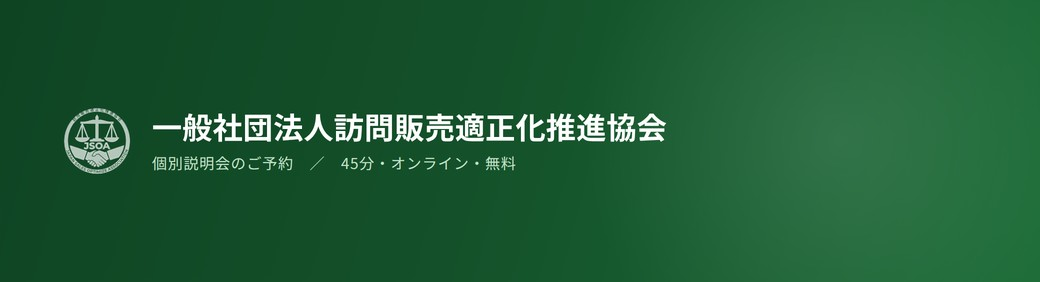
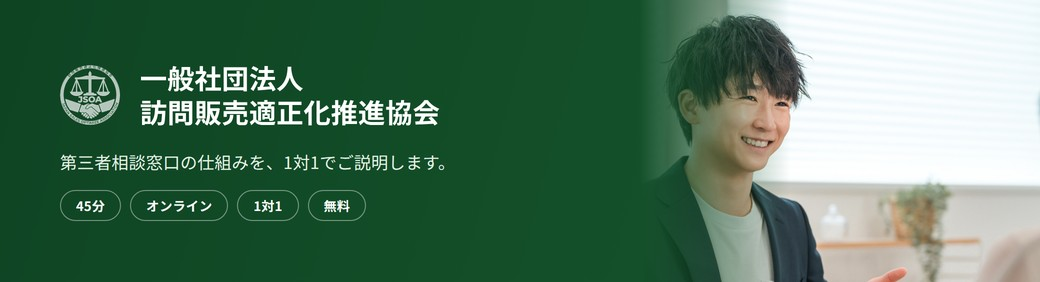
Restore the photo on the Jicoo cover
The booking page crops far less than the earlier stock image implied — the
frame is about 4.3:1 against the image's 3.69:1, so only 7% is lost top and
bottom. That leaves room for the photo and the session facts, where the
flat green version left most of the banner empty.

Claude-Session: https://claude.ai/code/session_01VY4H4nKyvLUSKi8jDhUzRq

diff --git a/design/banner/jicoo-cover.html b/design/banner/jicoo-cover.html
@@ -1,36 +1,41 @@
 <!DOCTYPE html><html lang="ja"><head><meta charset="UTF-8">
 <!-- Jicoo 予約ページのカバー画像（1040x282）
 
-     表示時に上下が大きく切られる（横1900pxの枠で高さ170px程度＝
-     画像の中央3分の1しか見えない）。そのため
-       ・文字とロゴは中央±50pxに収める
-       ・写真は使わない（どの位置でも人物の顔が切れるため）
-     という方針で組んでいる。 -->
+     予約ページ側の枠は約 4.3:1。この画像は 3.69:1 なので、表示時に
+     上下がそれぞれ 7% ほど切られる。安全域は上下20pxを除いた内側。 -->
 <style>
   *{box-sizing:border-box;margin:0;padding:0}
   body{width:1040px;height:282px;overflow:hidden;
     font-family:"Noto Sans JP","Noto Sans CJK JP",sans-serif}
   .b{position:relative;width:1040px;height:282px;overflow:hidden;
-    background:linear-gradient(105deg,#0f4423 0%,#14512a 46%,#1d6d38 100%);
-    display:flex;align-items:center;padding-left:64px}
-  /* 右奥の光。帯のどこを切り出しても単調にならないための陰影 */
-  .b::before{content:"";position:absolute;top:-120px;right:-60px;
-    width:520px;height:520px;border-radius:50%;
-    background:radial-gradient(circle,rgba(255,255,255,.11) 0%,rgba(255,255,255,0) 70%)}
-  .row{position:relative;display:flex;align-items:center;gap:22px}
-  .row img{width:66px;height:66px;display:block;flex:none}
-  .t strong{display:block;font-size:30px;font-weight:700;color:#fff;
+    background:#14512a;display:grid;grid-template-columns:640px 400px}
+  .l{position:relative;display:flex;flex-direction:column;justify-content:center;
+    padding:0 40px 0 60px;
+    background:linear-gradient(105deg,#0f4423 0%,#14512a 100%)}
+  .brand{display:flex;align-items:center;gap:20px}
+  .brand img{width:60px;height:60px;display:block;flex:none}
+  .brand strong{font-size:27px;font-weight:700;color:#fff;
     line-height:1.25;letter-spacing:.01em}
-  .t span{display:block;margin-top:8px;font-size:15px;font-weight:500;
-    color:#c3e2c9;letter-spacing:.05em}
+  .lead{margin-top:20px;font-size:17px;font-weight:500;color:#e4f2e6;
+    line-height:1.5;letter-spacing:.01em}
+  .chips{margin-top:16px;display:flex;gap:9px}
+  .chips li{list-style:none;border:1.5px solid rgba(255,255,255,.42);
+    border-radius:999px;padding:5px 15px;font-size:13px;font-weight:700;
+    color:#fff;letter-spacing:.02em}
+  .r{position:relative;overflow:hidden}
+  .r img{width:100%;height:100%;object-fit:cover;object-position:30% 26%;display:block}
+  .r::after{content:"";position:absolute;inset:0;width:150px;
+    background:linear-gradient(90deg,#14512a 0%,rgba(20,81,42,0) 100%)}
 </style></head><body>
 <div class="b">
-  <div class="row">
-    <img src="../../assets/images/LOGO-white.png" alt="">
-    <div class="t">
-      <strong>一般社団法人訪問販売適正化推進協会</strong>
-      <span>個別説明会のご予約　／　45分・オンライン・無料</span>
+  <div class="l">
+    <div class="brand">
+      <img src="../../assets/images/LOGO-white.png" alt="">
+      <strong>一般社団法人<br>訪問販売適正化推進協会</strong>
     </div>
+    <p class="lead">第三者相談窓口の仕組みを、1対1でご説明します。</p>
+    <ul class="chips"><li>45分</li><li>オンライン</li><li>1対1</li><li>無料</li></ul>
   </div>
+  <div class="r"><img src="../../assets/images/hero-main.jpg" alt=""></div>
 </div>
 </body></html>
